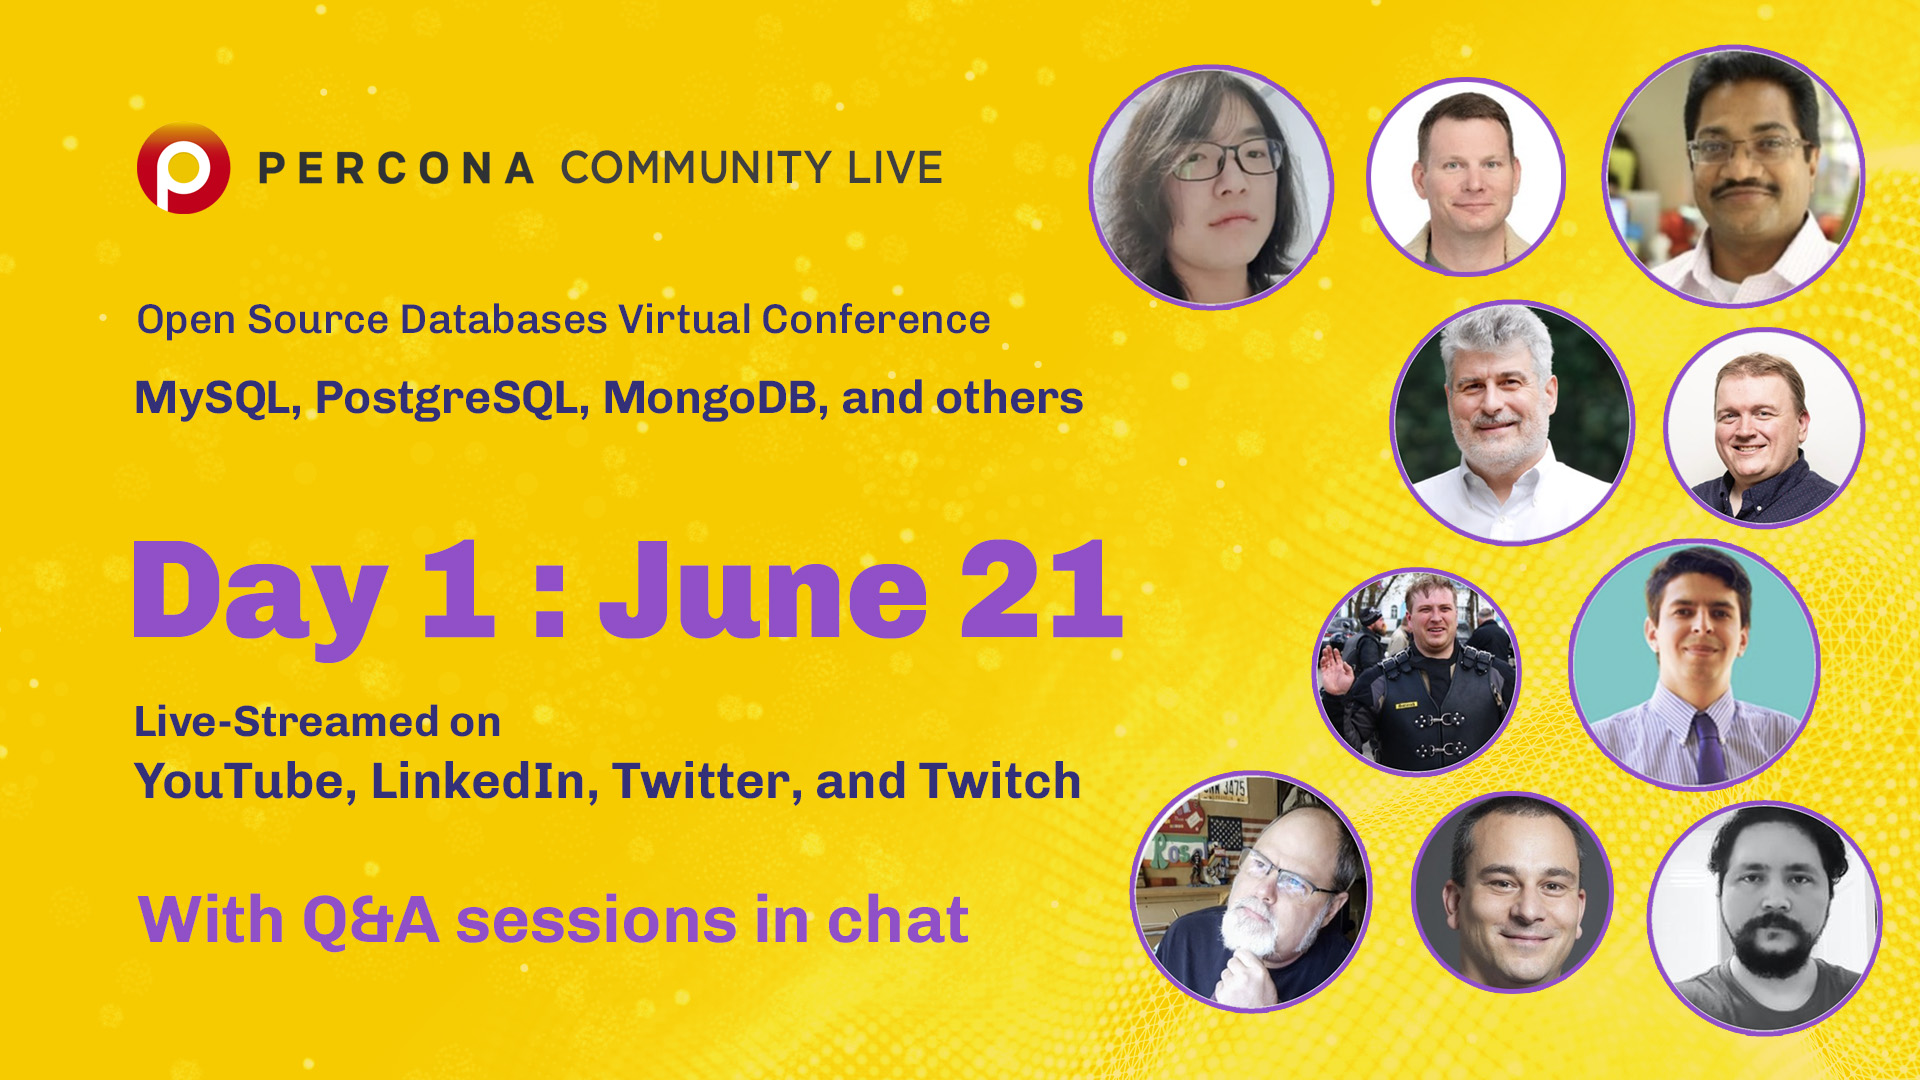
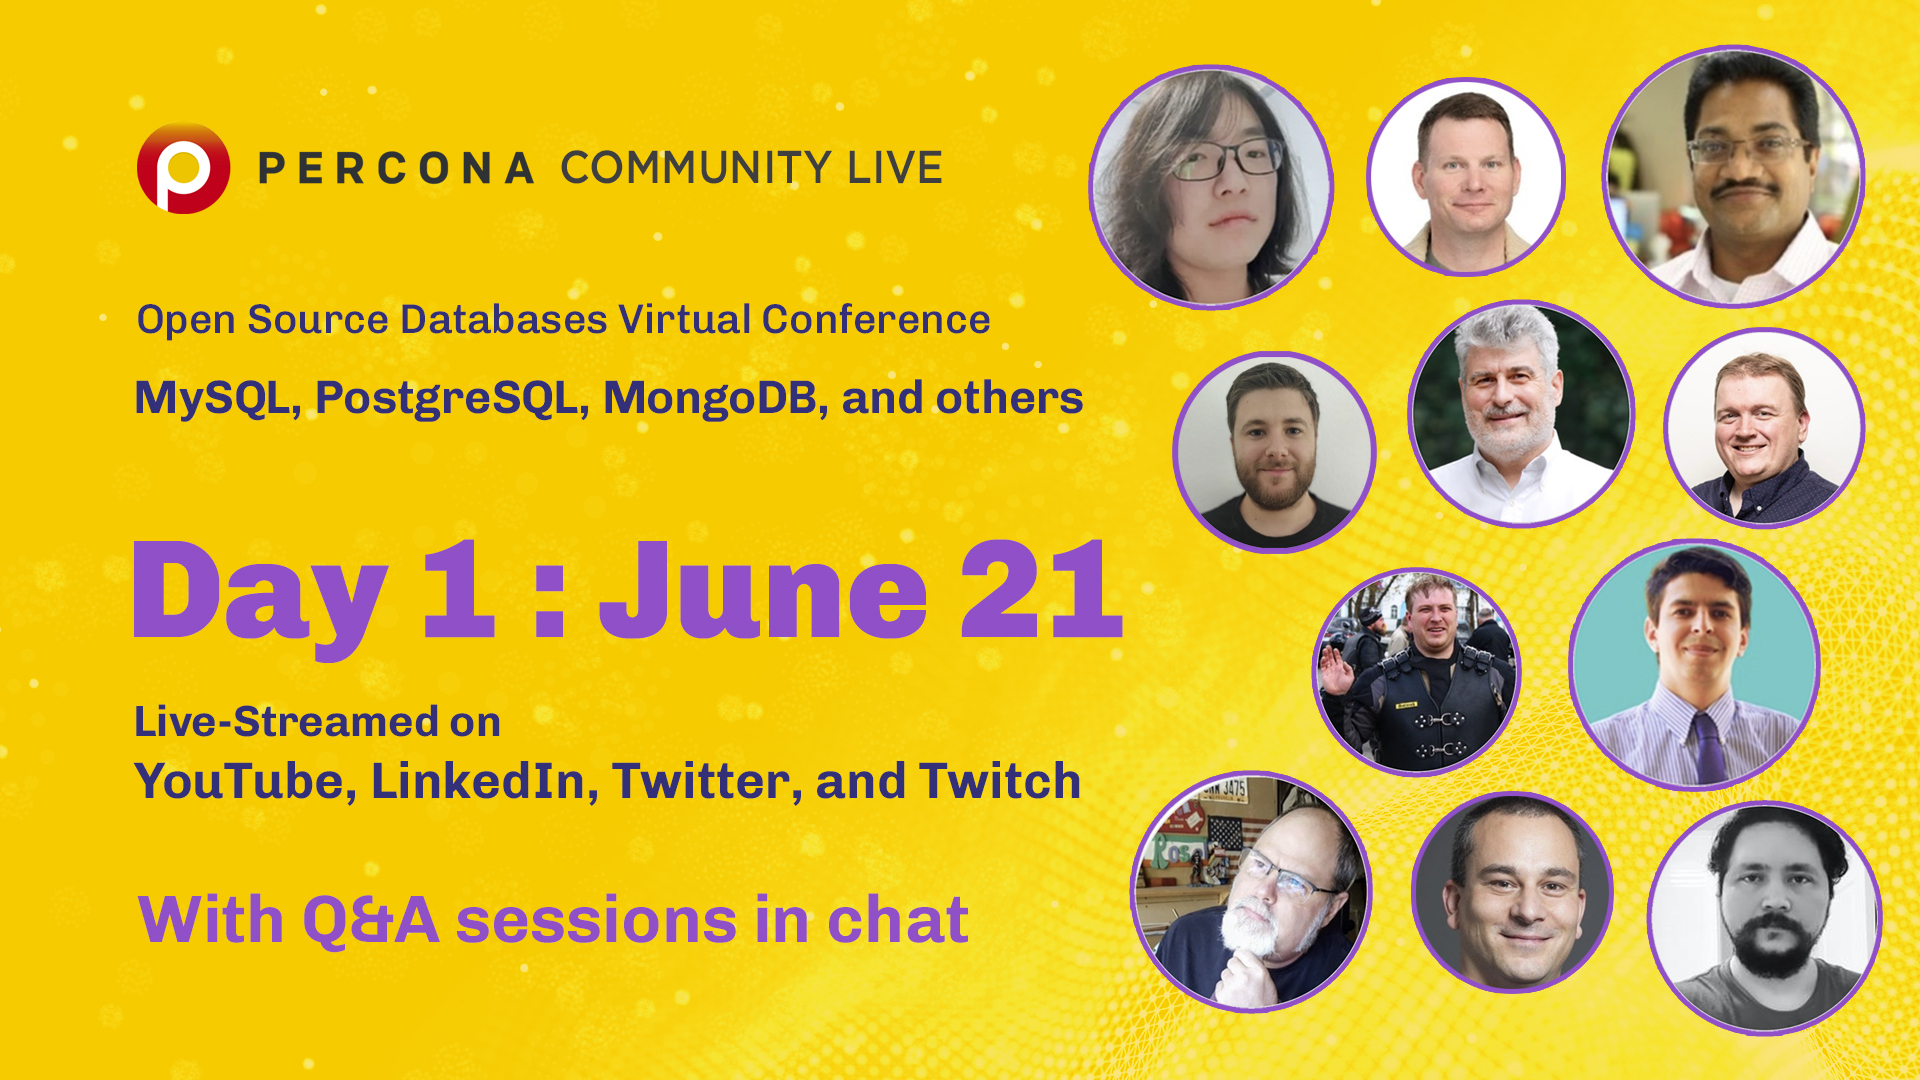
Add Schedule changes

Changed region(s): [[0.5938, 0.275, 0.875, 0.5194], [0.8438, 0.3361, 0.875, 0.3667]]

diff --git a/content/events/percona-community-live-2022/day-1-javier-fernandez.md b/content/events/percona-community-live-2022/day-1-javier-fernandez.md
@@ -1,0 +1,21 @@
+---
+title: "ProxySQL 2021 Dev Submit"
+description: "Join us for a deeper dive on the details of new ProxySQL features, what they have to offer and how you can get the most out of them."
+images:
+  -  events/percona-community-live/cards/Community-Live-Day-1-Javier-Jaramago.jpg
+PublishedDate: "2022-06-21"
+draft: false
+day: "June 21"
+speakers:
+  - javier_fernandez
+tags: ['Databases', 'Percona Community Live']
+---
+
+
+This session is presented on [Percona Community Live](/events/percona-community-live-2022/) Online June 21-23, 2022. Check out the full schedule [here](/events/percona-community-live-2022/).
+
+ProxySQL has proven itself as the de-facto standard reverse proxy for MySQL, yet, we are always looking for new features and improvements. During this past year starting with v2.1.0, four new major ProxySQL versions were released, and with them new features of all sorts were introduced, ranging from protocol changes, authentication improvements, clustering improvements, new monitoring features (for Galera, Group Replication, Aurora AWS) to DDOS protection. Join us for a deeper dive on the details of these (and more) new features, what they have to offer and how you can get the most out of them.
+
+![ProxySQL 2021 Dev Submit](events/percona-community-live/cards/community-Live-Day-1-Javier-Jaramago.jpg)
+
+Check out the full schedule of [Percona Community Live](/events/percona-community-live-2022/) Online June 21-23, 2022

diff --git a/content/speakers/javier_fernandez/index.md b/content/speakers/javier_fernandez/index.md
@@ -1,0 +1,20 @@
+---
+title: Javier Jaramago Fernández
+name: javier_fernandez
+name_pronunciation: javier_fernandez
+fullname: Javier Jaramago Fernández
+fullname_pronounciation: Javier Jaramago Fernández
+job: ProxySQL, Software Engineer
+country: 
+tagline: 
+social:
+  website: 
+  facebook:
+  twitter:
+  github: 
+  linkedin: https://www.linkedin.com/in/javier-jaramago-fern%C3%A1ndez-545a9343/
+images:
+  - speakers/javier_fernandez.png
+---
+
+Systems engineer, OpenSource contributor, currently at ProxySQL. Interested in systems programming, databases, distributed and critical systems.

diff --git a/content/events/percona-community-live-2022/_index.md b/content/events/percona-community-live-2022/_index.md
@@ -41,6 +41,7 @@ speakers:
   - naveed_shaikh
   - sidney_chen
   - daniel_seybold
+  - javier_fernandez
 weight: 1
 ---
 
